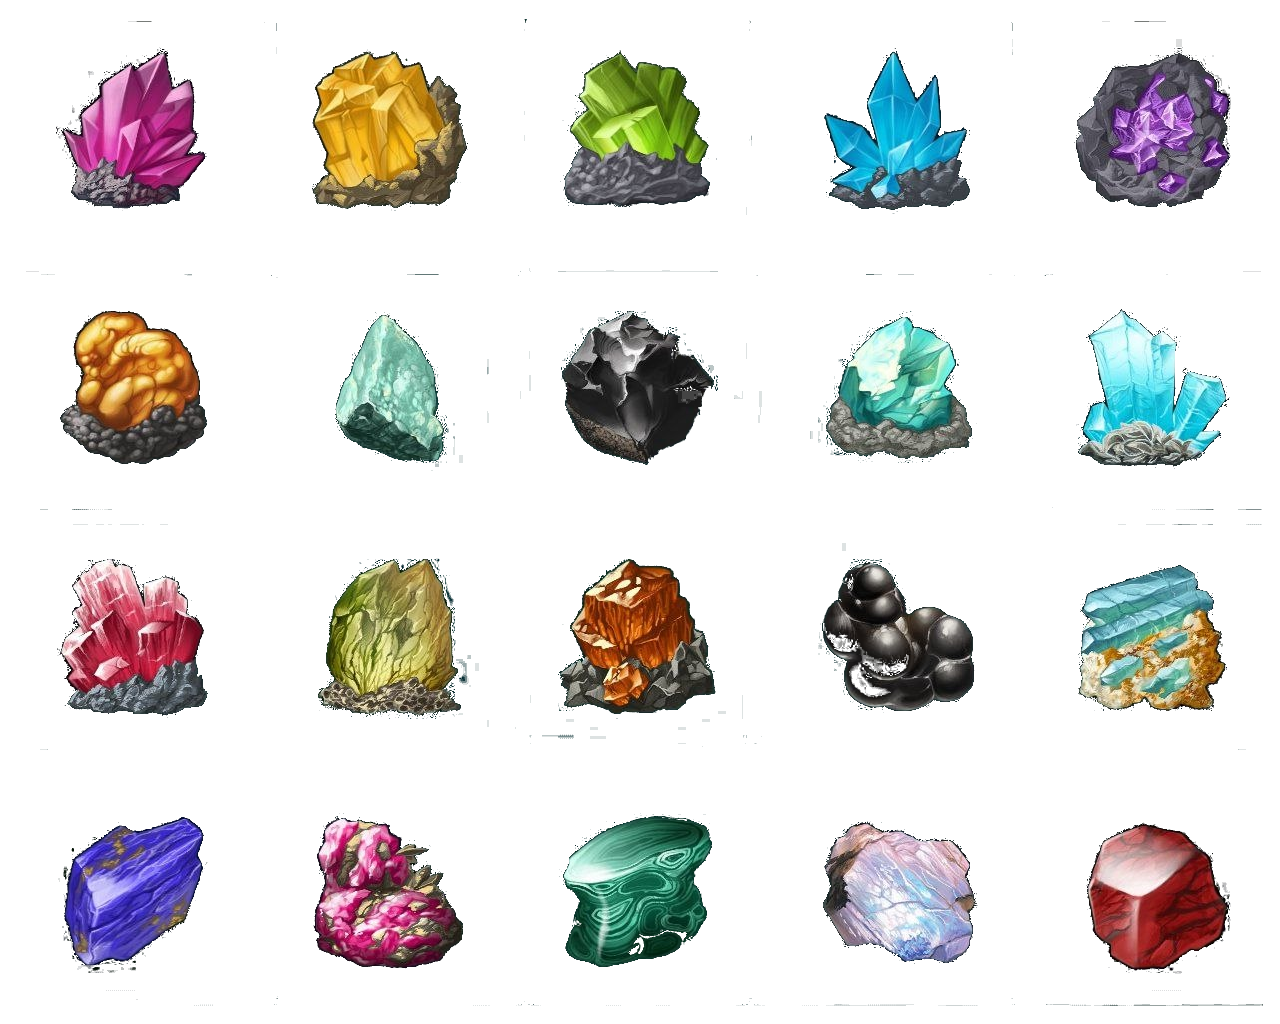
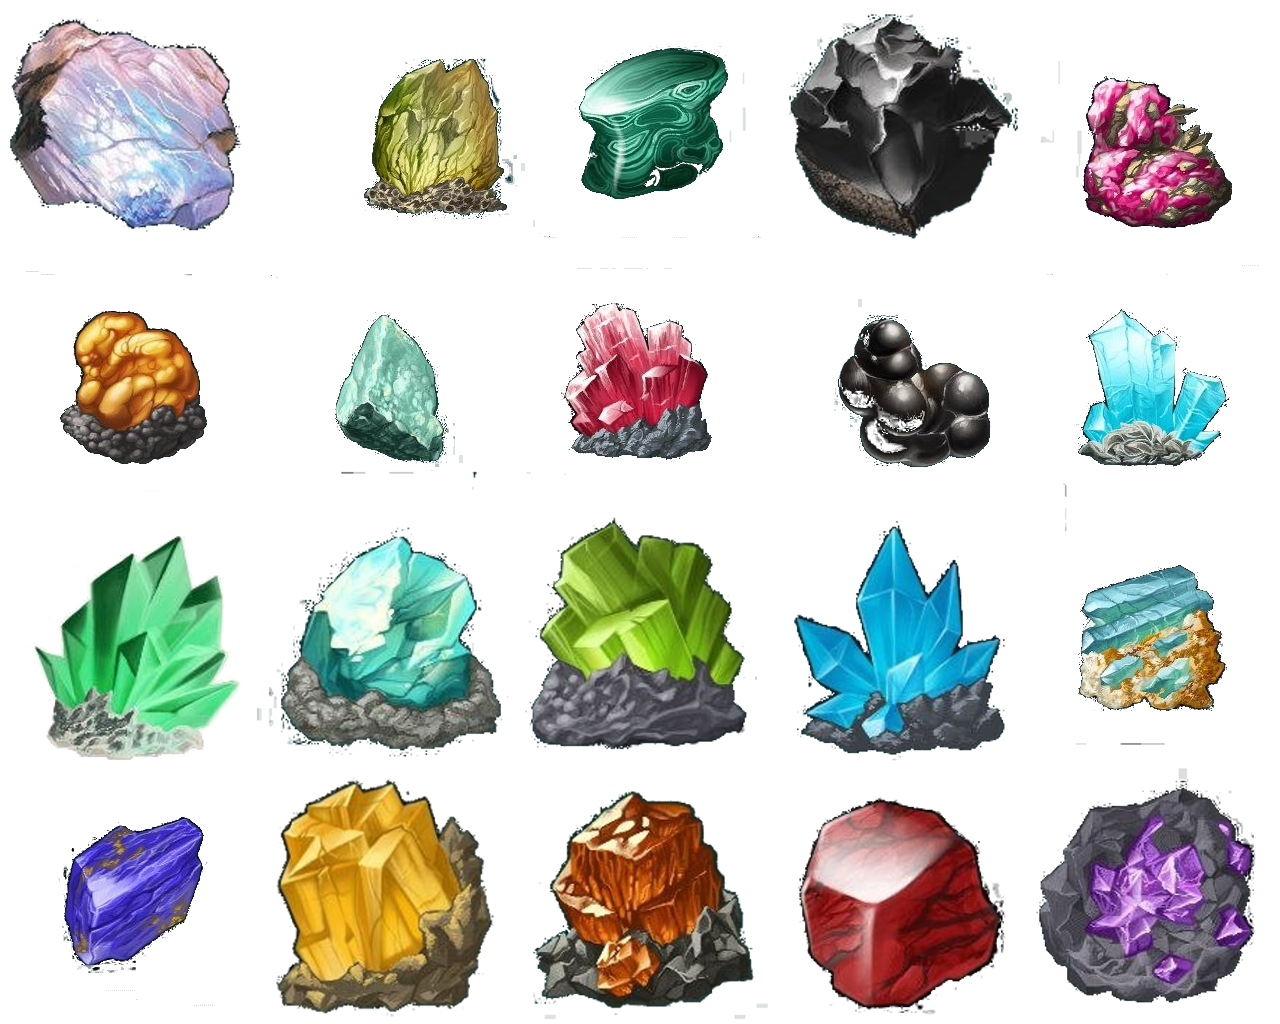
Bilder upgedated - in Programm integriert

diff --git a/src/index.py b/src/index.py
@@ -55,6 +55,7 @@ gems_seq = pyglet.image.ImageGrid(gems_image, 4, 5)
 
 gems_gained = []
 
+
 # Image quiz definitions
 quizes = []
 
@@ -65,9 +66,24 @@ def add_quiz(image_files):
         quiz.append(pyglet.resource.image(image))
     quizes.append(quiz)
 
-add_quiz(['Alois_1.jpg'])
-add_quiz(['chromosomes_1.png','chromosomes_2.png','chromosomes_3.png','chromosomes.png'])
-add_quiz(['Alois_2.jpg','Alois_3.jpg','Alois_4.jpg','Alois_5.jpg'])
+# Startbild
+add_quiz(['start.jpg'])
+# Erstes Quiz
+add_quiz(['Hibiskus_1.JPG','Hibiskus_2.JPG','Hibiskus_3.JPG','Hibiskus_4.JPG','Hibiskus_5.JPG','Hibiskus_6.JPG','Hibiskus_7.JPG','Frauenschuh_1.jpg','Frauenschuh_2.jpg','Frauenschuh_3.jpg','Frauenschuh_4.jpg','Frauenschuh_5.jpg','Frauenschuh_6.jpg','Frauenschuh_7.jpg'])
+# Zweites Quiz
+add_quiz(['Ehe_2.jpg','Familie.jpg'])
+# Drittes Quiz
+add_quiz(['Mauerbau.jpeg'])
+# Viertes Quiz
+add_quiz(['Freunde_1.jpg'])
+# Fuenftes Quiz
+add_quiz(['Fortfahren_1.jpg'])
+# Sechstes Quiz
+add_quiz(['Geschwister_1.jpg','Geschwister_2.jpg'])
+# Siebtes Quiz
+add_quiz(['Motorrad.jpg'])
+# Achtes Quiz
+add_quiz(['Nigeria.jpg'])
 
 image_index = 0
 quiz_index = 0
@@ -89,7 +105,7 @@ def update_stones():
         y = (row+1) * unit_size
         for column in range(window.width/unit_size):
             x = column * unit_size
-            if column + labyrinth_shift > len(labyrinth[row]):
+            if column + labyrinth_shift >= len(labyrinth[row]):
                 continue
             if labyrinth[row][column + labyrinth_shift]:
                 stone_sprite = pyglet.sprite.Sprite(stone_image, x, y, batch=batch)
@@ -118,7 +134,7 @@ def check_for_gems():
     global gems_gained
     gem = gems[player_position_y][player_position_x]
     if gem >= 0:
-        labyrinth_shift += 10
+        labyrinth_shift += 12
         gems[player_position_y][player_position_x] = -1
         quiz_index = gem
         gems_gained.append(gem)
